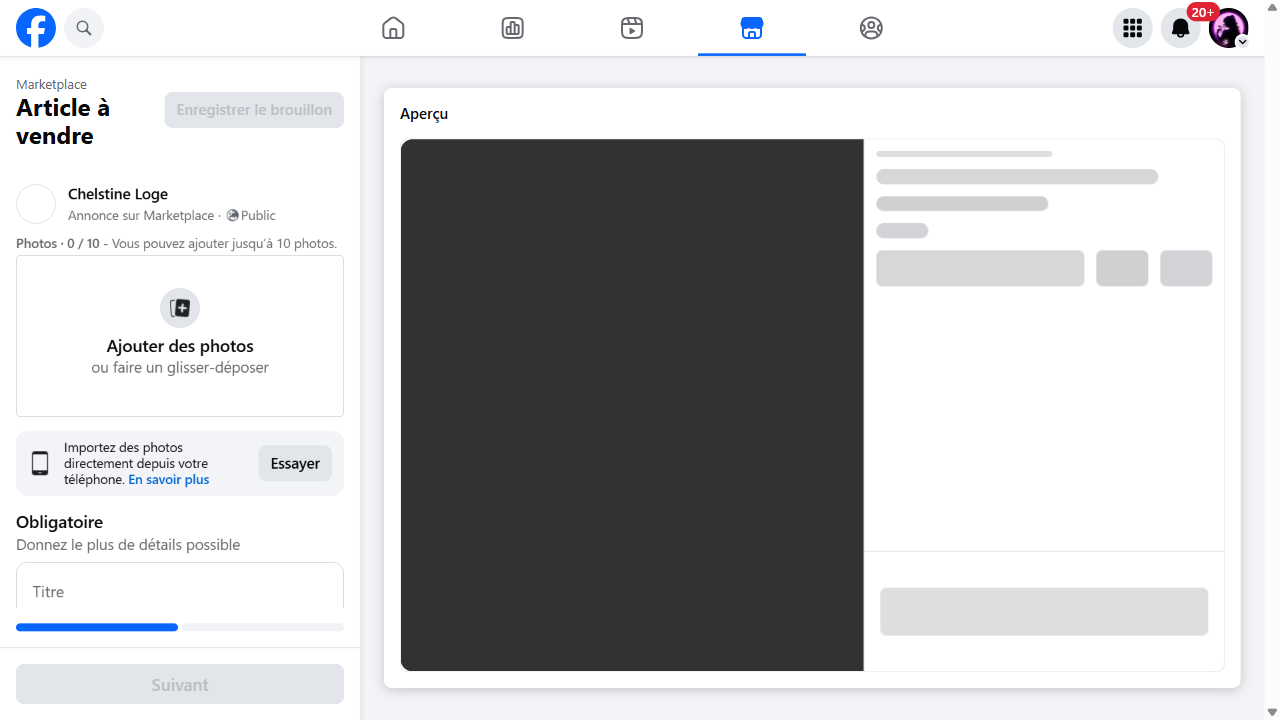
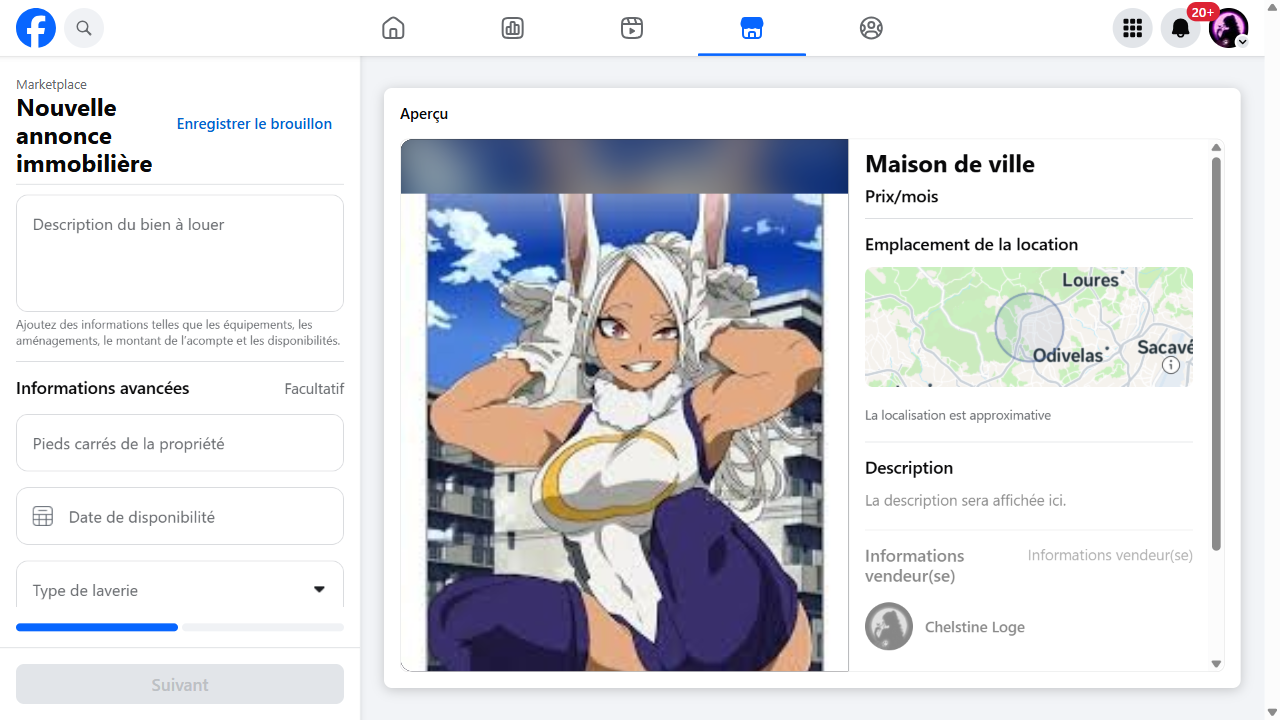
up

diff --git a/scripts/publish-facebook.js b/scripts/publish-facebook.js
@@ -16,7 +16,7 @@ const SESSIONS_DIR = path.join(__dirname, '../sessions');
 const sessionPath = path.join(SESSIONS_DIR, 'facebook-session.json');
 
 async function run() {
-    console.log("=== GHOST PUBLISHER (Facebook) ===");
+    console.log("=== GHOST PUBLISHER (Facebook Immobilier) ===");
 
     if (!fs.existsSync(sessionPath)) {
         console.error("❌ Erreur : Aucune session Facebook trouvée. Lancez 'npm run bot:login' d'abord.");
@@ -24,153 +24,200 @@ async function run() {
     }
 
     const browser = await chromium.launch({
-        headless: false, // Keep visible to monitor (can be headless=true later)
+        headless: false,
         channel: 'chrome'
     });
 
     const context = await browser.newContext({
-        storageState: sessionPath // Inject cookies
+        storageState: sessionPath
     });
 
     const page = await context.newPage();
 
     try {
-        console.log("Navigating to Marketplace...");
-        await page.goto('https://www.facebook.com/marketplace/create/item');
+        // Navigate to RENTAL/REAL ESTATE form (correct URL)
+        console.log("Navigating to Marketplace Immobilier...");
+        await page.goto('https://www.facebook.com/marketplace/create/rental?locale=fr_FR');
+        await page.waitForTimeout(3000);
 
-        // Check if we need to select "Item for Sale" (Sometimes it asks directly)
-        // Try to find the generic "Item for Sale" button if we are on the selection screen
-        const itemForSaleBtn = page.getByText('Item for Sale', { exact: false }).or(page.getByText('Article à vendre'));
-        if (await itemForSaleBtn.isVisible({ timeout: 5000 })) {
-            await itemForSaleBtn.click();
-        }
-
-        console.log("Filling form...");
+        console.log("Filling real estate form...");
 
         // 1. 📷 PHOTOS
         console.log(`Uploading ${listing.photos.length} photos...`);
-
-        // Try to force the file input to appear if hidden
-        // Sometimes clicking the big box helps trigger the DOM elements
-        const addPhotoBtn = page.getByText('Ajouter des photos').first();
-        if (await addPhotoBtn.isVisible()) {
-            // We don't necessarily click it because it opens system dialog, 
-            // but we wait for the input to be present in DOM.
-        }
-
         const fileInput = page.locator('input[type="file"]').first();
-        // Give it more time and try to locate it even if hidden
         await fileInput.waitFor({ state: 'attached', timeout: 15000 });
         await fileInput.setInputFiles(listing.photos);
         await page.waitForTimeout(3000);
 
-        // 2. 🌍 LOCATION (MOVED FIRST to force Currency to €)
-        console.log("Setting Location first (to fix Currency)...");
-        const locInput = page.getByLabel('Lieu', { exact: false }).or(page.getByLabel('Location'));
-        if (await locInput.isVisible()) {
-            await locInput.click();
-            await page.waitForTimeout(500);
+        // 2. 🏠 TYPE DE BIEN (Property Type)
+        console.log("Setting Property Type...");
+        const typeInput = page.getByLabel('Type de propriété', { exact: false })
+            .or(page.getByLabel('Type de bien'))
+            .or(page.getByLabel('Property type'));
 
-            // Clear existing location
-            await page.keyboard.press('Control+A');
-            await page.keyboard.press('Backspace');
-            await page.waitForTimeout(500);
+        if (await typeInput.isVisible({ timeout: 5000 }).catch(() => false)) {
+            await typeInput.click();
+            await page.waitForTimeout(1500); // Wait for dropdown animation
 
-            await page.keyboard.type(listing.city);
-            await page.waitForTimeout(2000); // Wait for suggestions (e.g. "Nantes, France")
-            await page.keyboard.press('ArrowDown');
+            // Map our types to Facebook options
+            const typeMap = {
+                'Appartement': 'Appartement',
+                'Maison': 'Maison',
+                'Studio': 'Appartement', // Studio often falls under Appartement
+                'Immeuble': 'Maison', // Fallback
+                'Terrain': 'Terrain', // If available
+                'Commerce': 'Local commercial'
+            };
+            const fbType = typeMap[listing.type] || 'Appartement';
+            console.log(`Selecting type: ${fbType}`);
+
+            // Try direct typing which is often more reliable than coordinate clicking
+            await page.keyboard.type(fbType);
+            await page.waitForTimeout(1000);
             await page.keyboard.press('Enter');
-            await page.waitForTimeout(1000); // Allow FB to update currency
-        }
-
-        // 3. 📝 TEXT FIELDS
-        console.log("Setting Title...");
-        await page.getByLabel('Titre').fill(listing.title);
-
-        console.log("Setting Price...");
-        await page.getByLabel('Prix').fill(listing.price.toString());
-
-        // 4. 📂 CATEGORY (FIXED)
-        console.log("Setting Category (Maison et jardin)...");
-        const catInput = page.getByLabel('Catégorie');
-        if (await catInput.isVisible()) {
-            await catInput.click();
-            await page.waitForTimeout(1500);
-
-            // "Ventes immobilières" does not exist in 'Item' flow.
-            // "Maison et jardin" is the safest bet seen in screenshots.
-            await page.keyboard.type('Maison');
-            await page.waitForTimeout(2000); // Wait for filter
-            await page.keyboard.press('Enter'); // Select first result ("Maison et jardin")
             await page.waitForTimeout(1000);
         }
 
-        // 5. 🛠 HANDLING "CONDITION" & "BRAND" (If Category failed or FP requires it)
-        // Check for "État" (Condition)
-        const conditionInput = page.getByLabel('État', { exact: false }).or(page.getByLabel('Condition'));
-        if (await conditionInput.isVisible()) {
-            console.log("Filling Condition (État)...");
-            await conditionInput.click();
+        // 3. 🛏 CHAMBRES (Bedrooms)
+        console.log("Setting Bedrooms...");
+        const bedroomsInput = page.getByLabel('Nombre de chambres', { exact: false })
+            .or(page.getByLabel('Chambres'))
+            .or(page.getByLabel('Bedrooms'));
+
+        if (await bedroomsInput.isVisible({ timeout: 3000 }).catch(() => false)) {
+            await bedroomsInput.click();
             await page.waitForTimeout(500);
-            // Select "Neuf" or "Excellent état" - usually the first or second option
-            // Let's rely on text search inside the dropdown
-            await page.getByRole('option', { name: /Neuf|New|Excellent/i }).first().click().catch(() => {
-                // Fallback: just use arrows if text fails
-                page.keyboard.press('ArrowDown');
-                page.keyboard.press('Enter');
-            });
+            const bedrooms = Math.max(1, (listing.pieces || 2) - 1);
+            await page.keyboard.type(bedrooms.toString());
+            await page.keyboard.press('Enter');
+            await page.waitForTimeout(500);
         }
 
-        // Check for "Marque" (Brand) - visible in screenshot
-        const brandInput = page.getByLabel('Marque', { exact: false }).or(page.getByLabel('Brand'));
-        if (await brandInput.isVisible()) {
-            console.log("Filling Brand...");
-            await brandInput.fill('ImmoSync / Agence');
+        // 4. 🚿 SALLES DE BAIN (Bathrooms)
+        console.log("Setting Bathrooms...");
+        const bathInput = page.getByLabel('Nombre de salles de bain', { exact: false })
+            .or(page.getByLabel('Salles de bain'))
+            .or(page.getByLabel('Bathrooms'));
+
+        if (await bathInput.isVisible({ timeout: 3000 }).catch(() => false)) {
+            await bathInput.click();
+            await page.waitForTimeout(500);
+            await page.keyboard.type('1'); // Default to 1 if unknown
+            await page.keyboard.press('Enter');
+            await page.waitForTimeout(500);
         }
 
-        // 6. 📝 DESCRIPTION
+        // 5. 💶 PRIX (Price/Rent)
+        console.log("Setting Price...");
+        const priceInput = page.getByLabel('Prix par mois', { exact: false })
+            .or(page.getByLabel('Loyer'))
+            .or(page.getByLabel('Prix'));
+
+        if (await priceInput.isVisible({ timeout: 3000 }).catch(() => false)) {
+            await priceInput.fill(listing.price.toString());
+        }
+
+        // 6. 📍 ADRESSE / LIEU (Location)
+        console.log("Setting Location...");
+        const locInput = page.getByLabel('Lieu', { exact: false })
+            .or(page.getByLabel('Adresse de la propriété'))
+            .or(page.getByLabel('Location'))
+            .or(page.getByLabel('Adresse')); // General fallback
+
+        if (await locInput.isVisible({ timeout: 3000 }).catch(() => false)) {
+            await locInput.click();
+            await page.waitForTimeout(500);
+
+            // Clear potential default value
+            await page.keyboard.press('Control+A');
+            await page.keyboard.press('Backspace');
+
+            await page.keyboard.type(listing.city);
+            await page.waitForTimeout(2000); // Wait for dropdown
+            await page.keyboard.press('ArrowDown');
+            await page.keyboard.press('Enter');
+            await page.waitForTimeout(1000);
+        }
+
+        // 7. 📝 DESCRIPTION
         console.log("Setting Description...");
-        await page.getByLabel('Description').fill(listing.description);
+        const descInput = page.getByLabel('Description du bien à louer', { exact: false })
+            .or(page.getByLabel('Description'));
 
-        // Location was already set.
+        if (await descInput.isVisible({ timeout: 3000 }).catch(() => false)) {
+            await descInput.fill(listing.description);
+        }
 
-        console.log("Waiting for form validation...");
-        await page.waitForTimeout(2000);
+        // 8. 📏 SURFACE (Square feet/meters) - "Informations avancées"
+        console.log("Setting Surface...");
+        const surfaceInput = page.getByLabel('Pieds carrés de la propriété', { exact: false })
+            .or(page.getByLabel('Surface'))
+            .or(page.getByLabel('m²'));
 
-        // 7. 🚀 PUBLISH / NEXT
-        // Try to find "Suivant" button
+        if (await surfaceInput.isVisible({ timeout: 3000 }).catch(() => false)) {
+            await surfaceInput.fill((listing.surface || '50').toString());
+        }
+
+        // 9. 📅 DATE DE DISPONIBILITÉ (Availability Date)
+        console.log("Setting Availability Date...");
+        const dateInput = page.getByLabel('Date de disponibilité', { exact: false });
+        if (await dateInput.isVisible({ timeout: 3000 }).catch(() => false)) {
+            const today = new Date();
+            const day = String(today.getDate()).padStart(2, '0');
+            const month = String(today.getMonth() + 1).padStart(2, '0');
+            const year = today.getFullYear();
+            const dateStr = `${day}/${month}/${year}`;
+
+            await dateInput.click();
+            await page.waitForTimeout(500);
+            await page.keyboard.type(dateStr);
+            await page.keyboard.press('Enter');
+        }
+
+        // 10. 📋 TITRE (Title)
+        console.log("Setting Title...");
+        const titleInput = page.getByLabel('Titre', { exact: false }).or(page.getByLabel('Title'));
+        if (await titleInput.isVisible({ timeout: 2000 }).catch(() => false)) {
+            await titleInput.fill(listing.title);
+        }
+
+        // 10. 🚀 PUBLISH
+        console.log("Looking for Next/Publish buttons...");
         const nextBtn = page.getByRole('button', { name: 'Suivant' });
 
-        if (await nextBtn.isVisible()) {
+        // Loop to handle multiple "Next" steps if any
+        let attempts = 0;
+        while (await nextBtn.isVisible({ timeout: 2000 }).catch(() => false) && attempts < 3) {
             console.log("Clicking Next...");
             await nextBtn.click();
             await page.waitForTimeout(2000);
-        } else {
-            // Fallback selector
-            await page.click('div[aria-label="Suivant"]');
+            attempts++;
         }
 
-        // Final Publish Button
         const publishBtn = page.getByRole('button', { name: 'Publier' });
-        if (await publishBtn.isVisible()) {
+        if (await publishBtn.isVisible({ timeout: 10000 }).catch(() => false)) {
             console.log("Clicking Publish...");
             await publishBtn.click();
-            console.log("✅ Clicked Publish!");
-            await page.waitForTimeout(5000); // Wait for success confirmation
+            console.log("✅ Annonce publiée avec succès !");
+            await page.waitForTimeout(5000);
+        } else {
+            throw new Error("Bouton 'Publier' introuvable ! Le formulaire n'est peut-être pas complet.");
         }
 
+        // Close browser after success
+        await browser.close();
+
     } catch (e) {
-        console.error("❌ Error during ghost publishing:", e);
-        await page.screenshot({ path: path.join(__dirname, 'error-screenshot.png') });
-
-        console.log("⚠ ERROR: Browser left open for inspection.");
-        // Keep open for 60s
-        await page.waitForTimeout(60000);
+        console.error("❌ Error during ghost publishing:", e.message);
+        try {
+            await page.screenshot({ path: path.join(__dirname, 'error-screenshot.png') });
+            console.log("📸 Screenshot d'erreur sauvegardé.");
+        } catch (screenshotErr) {
+            // Ignore screenshot errors
+        }
+        console.log("⚠ Browser fermé après erreur.");
+        await browser.close();
         process.exit(1);
-
-    } finally {
-        console.log("Process finished.");
-        // await browser.close(); // Keep open for now
     }
 }
 
